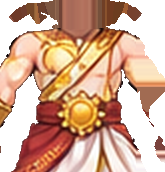
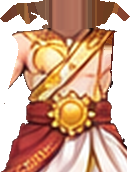
Rig: skin shared over shoulders / elbows / hips (limb-sized weights); capsule limbs + continued body outline in the front-view cutter; Apollo re-cut; checker expects no bow button without a bow
Claude-Session: https://claude.ai/code/session_01TXxUxRVSrR4y47PPq4zaDc

diff --git a/rig2d/bones.js b/rig2d/bones.js
@@ -308,7 +308,7 @@ const Bones2D = (() => {
      without WebGL the pieces are drawn stiff as before. Weapons stay stiff. rig._meshShow = true draws the grid (orange = points that blend bones). */
   const fall = (d, s) => { const t = Math.min(1, d / s); return 1 - t * t * (3 - 2 * t); };
   const NOKID = { weapon: 1, weaponB: 1, none: 1, hair: 1, cape: 1, tail: 1, wing: 1 };   /* a body does not bend toward its swinging hair / cape or a hidden filler */
-  function meshOpt(rig) { return Object.assign({ mode: 'pieces', step: 12, soft: 18, blend: .5 }, rig.mesh === true ? {} : rig.mesh || {}); }
+  function meshOpt(rig) { return Object.assign({ mode: 'pieces', step: 12, soft: 18, blend: .5, skin: .45, pull: .45, reach: .35 }, rig.mesh === true ? {} : rig.mesh || {}); }
   function meshSig(rig) { let s = ''; for (const k of rig.order) { const q = rig.parts[k]; s += k + q.p + q.at + q.pv + q.r + q.s + q.fx + q.role + '|'; } return s + JSON.stringify(rig.mesh) + rig._feet; }
   function meshMake(rig) {
     prep(rig); const o = meshOpt(rig), M0 = world(rig, {}, null), inv0 = {}; for (const k in M0) inv0[k] = inv(M0[k]);
@@ -322,17 +322,35 @@ const Bones2D = (() => {
     return { u, v, tri: Uint16Array.from(tri) };
   }
   const alphaOf = im => { const c = document.createElement('canvas'); c.width = im.width; c.height = im.height; const g = c.getContext('2d', { willReadFrequently: true }); g.drawImage(im, 0, 0); return g.getImageData(0, 0, im.width, im.height).data; };
-  function meshPiece(rig, k, im) {   /* one piece's picture as a mesh, weights to itself, its parent (round its turning point) and its children (round theirs) */
+  /* SKIN round the limb joints (owner 2026-11-28 "รักแร้ก็ขาด ... ไม่แก้ที่ต้นเหตุ เมชกระดูกเข้าหรือเมชชิ้นส่วนไม่ได้หรือ"): a small circle round the
+     turning point was too little, the armpit tore open when an arm went up. For a LIMB (arm, forearm, leg, shin) the skin is shared over the whole
+     shoulder / hip / elbow: the limb's own points near its root follow the body part above it (fading out along the limb's length), and the body
+     part's points near the limb's upper half follow the limb (fading out over a third of the limb's length). Measured from each limb's own size,
+     so a new hero gets it without setting anything. */
+  const LIMB = { armF: 1, armB: 1, foreF: 1, foreB: 1, legF: 1, legB: 1, shinF: 1, shinB: 1 };
+  function limbAxis(rig, k) {   /* a limb at rest: turning point, unit direction down the limb, length (world px), from the farthest corner of its picture */
+    const M = rig._mesh, m = M.M0[k], im = rig.img[k], q = rig.parts[k]; if (!im) return null; let best = null;
+    for (const [u, v] of [[0, 0], [1, 0], [0, 1], [1, 1], [.5, 1], [.5, 0], [0, .5], [1, .5]]) { const p = pt(m, im.width * u - q.pv[0] - (im._ox || 0), im.height * v - q.pv[1] - (im._oy || 0)), d = Math.hypot(p[0] - m[4], p[1] - m[5]); if (!best || d > best[2]) best = [p[0], p[1], d]; }
+    const c = pt(m, im.width / 2 - q.pv[0] - (im._ox || 0), im.height / 2 - q.pv[1] - (im._oy || 0)), dx = c[0] - m[4], dy = c[1] - m[5], dl = Math.hypot(dx, dy) || 1;
+    return { J: [m[4], m[5]], A: [dx / dl, dy / dl], L: Math.max(10, Math.min(best[2], dl * 2.2)) };
+  }
+  function meshPiece(rig, k, im) {   /* one piece's picture as a mesh, weights to itself, its parent and its children (see SKIN above) */
     const M = rig._mesh, o = M.o, q = rig.parts[k], W = im.width, H = im.height, rigid = q.role === 'weapon' || q.role === 'weaponB', m0 = M.M0[k];
     const al = rigid ? null : alphaOf(im), G = meshGrid(W, H, rigid ? 1e9 : o.step, al && ((x, y) => al[(y * W + x) * 4 + 3] > 8));
     const par = !rigid && q.p && rig.parts[q.p] && q.p !== k ? q.p : null, kids = rigid ? [] : Object.keys(rig.parts).filter(c => c !== k && rig.parts[c].p === k && !NOKID[rig.parts[c].role]);
+    const myAx = LIMB[q.role] && par ? limbAxis(rig, k) : null, kidAx = kids.map(c => LIMB[rig.parts[c].role] ? limbAxis(rig, c) : null);
     const bones = [k].concat(par ? [par] : [], kids), n = G.u.length, rx = new Float32Array(n), ry = new Float32Array(n), uv = new Float32Array(n * 2), wb = [], ww = [], ox = q.pv[0] + (im._ox || 0), oy = q.pv[1] + (im._oy || 0);
+    const segD = (X, Y, ax, f) => { const ex = ax.J[0] + ax.A[0] * ax.L * f, ey = ax.J[1] + ax.A[1] * ax.L * f, vx = ex - ax.J[0], vy = ey - ax.J[1], t = Math.max(0, Math.min(1, ((X - ax.J[0]) * vx + (Y - ax.J[1]) * vy) / (vx * vx + vy * vy || 1))); return Math.hypot(X - ax.J[0] - vx * t, Y - ax.J[1] - vy * t); };
     for (let i = 0; i < n; i++) { const lx = G.u[i] - ox, ly = G.v[i] - oy, X = m0[0] * lx + m0[2] * ly + m0[4], Y = m0[1] * lx + m0[3] * ly + m0[5]; rx[i] = X; ry[i] = Y; uv[i * 2] = G.u[i] / W; uv[i * 2 + 1] = G.v[i] / H;
-      const b = [0], w = [1]; if (!rigid) { let s = 0; const add = (bi, J) => { const f = o.blend * fall(Math.hypot(X - J[4], Y - J[5]), o.soft); if (f > .01) { b.push(bi); w.push(f); s += f; } };
-        if (par) add(1, m0); kids.forEach((c, j) => add(1 + (par ? 1 : 0) + j, M.M0[c])); w[0] = Math.max(.2, 1 - s); const t = w.reduce((a, e) => a + e, 0); for (let j = 0; j < w.length; j++) w[j] /= t; }
+      const b = [0], w = [1]; if (!rigid) { let s = 0; const push = (bi, f) => { if (f > .01) { b.push(bi); w.push(f); s += f; } };
+        if (par) { if (myAx) { const t = ((X - myAx.J[0]) * myAx.A[0] + (Y - myAx.J[1]) * myAx.A[1]) / myAx.L; push(1, o.blend * fall(Math.max(0, t), o.skin)); }   /* down the limb from its root */
+          else push(1, o.blend * fall(Math.hypot(X - m0[4], Y - m0[5]), o.soft)); }
+        kids.forEach((c, j) => { const ax = kidAx[j]; push(1 + (par ? 1 : 0) + j, ax ? o.pull * fall(segD(X, Y, ax, .5), ax.L * o.reach) : o.blend * fall(Math.hypot(X - M.M0[c][4], Y - M.M0[c][5]), o.soft)); });   /* the body near a limb's upper half follows it */
+        w[0] = Math.max(.2, 1 - s); const t = w.reduce((a, e) => a + e, 0); for (let j = 0; j < w.length; j++) w[j] /= t; }
       wb.push(b); ww.push(w); }
     return { k, gen: M.gen, bones, rx, ry, uv, tri: G.tri, wb, ww };
   }
+
   function meshOne(rig, o, M0) {   /* the whole reference picture as ONE mesh. Which bone each spot follows = which piece covers it at rest (rig.parts only say
        where the bones are and which area is whose; their pictures are not drawn). Round a joint a spot also follows the bone on the other side (like 'pieces').
        Where two areas meet away from a joint (an arm lying over the skirt) the sheet is TORN, so the arm lifts off instead of dragging the skirt with it. */

diff --git a/tools/qa/rig_check.js b/tools/qa/rig_check.js
@@ -9,8 +9,8 @@ const { chromium } = require('playwright'), fs = require('fs');
   for (const [W, H] of [[844, 390], [1280, 720]]) {
     const pg = await (await b.newContext({ viewport: { width: W, height: H }, deviceScaleFactor: 2, hasTouch: W < 900 })).newPage(); pg.on('pageerror', e => errs.push(e.message)); pg.on('console', m => { if (m.type() === 'error') errs.push(m.text()); });
     await pg.goto(`http://localhost:8000/rig.html?char=${ch}`); await pg.waitForFunction(() => window.RIG && RIG.PL && RIG.PL.mats, null, { timeout: 20000 });
-    const info = await pg.evaluate(() => ({ parts: Object.keys(RIG.R.parts).length, roles: Object.values(RIG.R.parts).map(q => q.role), btn: document.querySelectorAll('#mvs button').length, moves: Object.keys(RIG.B.MOVES), clips: Object.keys(RIG.R.clips || {}).length }));
-    say(`${W}: rig loaded, ${info.parts} pieces, ${info.btn} move buttons`, info.btn >= info.moves.length - 1 && info.roles.includes('body') && (info.parts >= 5 && info.roles.includes('head') || info.clips > 0)   /* a drawn-frames rig may be one piece */);
+    const info = await pg.evaluate(() => ({ parts: Object.keys(RIG.R.parts).length, roles: Object.values(RIG.R.parts).map(q => q.role), btn: document.querySelectorAll('#mvs button').length, moves: Object.keys(RIG.B.MOVES), clips: Object.keys(RIG.R.clips || {}).length, shot: !!RIG.R.shot }));
+    say(`${W}: rig loaded, ${info.parts} pieces, ${info.btn} move buttons`, info.btn >= info.moves.length - 1 - (info.shot ? 0 : 1) &&   /* the bow move shows only for a hero with a bow */ info.roles.includes('body') && (info.parts >= 5 && info.roles.includes('head') || info.clips > 0)   /* a drawn-frames rig may be one piece */);
     await pg.waitForTimeout(500); await pg.screenshot({ path: `${out}/${W}_idle.png` });
     for (const mv of info.moves) { if (!await pg.evaluate(mv => { const b = document.querySelector(`#mvs button[data-mv="${mv}"]`); if (b) b.click(); return !!b; }, mv)) continue; await pg.waitForTimeout(mv === 'die' ? 500 : 450);
       const st = await pg.evaluate(() => ({ name: RIG.PL.name, nan: Object.values(RIG.PL.mats).some(m => m.some(v => !isFinite(v))) })); if (st.nan) say(`${W}: ${mv} gives a broken pose`, false); if (mv === 'attack' || mv === 'cast') await pg.screenshot({ path: `${out}/${W}_${mv}.png` }); }

diff --git a/tools/art/rig_from_front.py b/tools/art/rig_from_front.py
@@ -12,14 +12,16 @@ from scipy import ndimage as nd
 R = os.path.join(os.path.dirname(os.path.abspath(__file__)), '../..')
 CHARS = {
   'apollo': dict(sheet='art/incoming/apollo/owner_sheet_raw.png', title='อพอลโล (จากแผ่นของคุณ)', box=(560, 14, 730, 300), K=2, flip=False,
-    # regions in SHEET pixels: name: (role, parent, turning point, polygon). His left hand (right of the picture) holds the bow, the right one draws.
+    # regions in SHEET pixels: name: (role, parent, turning point, polygon[, capsule]). His left hand (right of the picture) holds the bow, the right one draws.
+    # capsule = (shoulder, fist, radius): the WHOLE limb along that line is the limb's (2026-11-28: the polygons gave the upper-arm muscle to the torso,
+    # so a lifted arm left its own shoulder behind = a torn armpit). Two points + a thickness, easier to set than a polygon and it follows the limb.
     parts=dict(
       leg_r=('legB', 'torso', (627, 240), [(606, 236), (646, 236), (646, 300), (606, 300)]),
       leg_l=('legF', 'torso', (676, 240), [(656, 236), (705, 236), (705, 300), (656, 300)]),
       skirt=('none', 'torso', (646, 212), [(596, 210), (712, 210), (712, 262), (596, 262), (596, 236), (606, 236), (646, 236), (656, 236), (705, 236), (712, 236)]),
       torso=('body', '', (646, 230), [(612, 136), (682, 136), (684, 212), (608, 212)]),
-      arm_r=('armB', 'torso', (612, 150), [(592, 140), (613, 140), (613, 212), (592, 212)]),
-      arm_l=('armF', 'torso', (682, 150), [(682, 140), (706, 140), (706, 212), (682, 212)]),
+      arm_r=('armB', 'torso', (619, 150), [(592, 140), (613, 140), (613, 212), (592, 212)], ((618, 151), (604, 202), 9.5)),
+      arm_l=('armF', 'torso', (680, 150), [(682, 140), (706, 140), (706, 212), (682, 212)], ((680, 151), (695, 202), 9.5)),
       head=('head', 'torso', (646, 138), [(560, 14), (730, 14), (730, 140), (682, 140), (612, 140), (560, 140)])),
     order=['leg_r', 'leg_l', 'arm_r', 'skirt', 'torso', 'bow', 'arm_l', 'head'],
     weapon=dict(name='bow', box=(1462, 126, 1504, 296), role='weapon', parent='arm_l', hold=(698, 198), height=.62, r=0),
@@ -40,16 +42,47 @@ S2 = lambda p: ((p[0] - x0) * K, (p[1] - y0) * K)
 keys = [k for k in C['parts']]; owner = np.full((H, W), -1)
 for j, k in enumerate(keys):   # later regions win (head over arms over torso ...)
     pm = Image.new('L', (W, H), 0); ImageDraw.Draw(pm).polygon([S2(p) for p in C['parts'][k][3]], fill=1); owner[(np.asarray(pm) > 0) & FIG] = j
+YY, XX = np.mgrid[0:H, 0:W].astype(np.float32)
+for j, k in enumerate(keys):   # limbs given as a capsule take every figure pixel along their line (after the polygons, before nothing else)
+    cap = C['parts'][k][4] if len(C['parts'][k]) > 4 else None
+    if not cap: continue
+    (ax, ay), (bx, by) = S2(cap[0]), S2(cap[1]); r = cap[2] * K; vx, vy = bx - ax, by - ay; t = np.clip(((XX - ax) * vx + (YY - ay) * vy) / (vx * vx + vy * vy), 0, 1)
+    d = np.hypot(XX - ax - vx * t, YY - ay - vy * t); owner[(d <= r) & FIG & (owner != keys.index('head'))] = j
 miss = FIG & (owner < 0); _, (iy, ix) = nd.distance_transform_edt(owner < 0, return_indices=True); owner[miss] = owner[iy[miss], ix[miss]]
 PARTS = {}; UNDER = 14 * K // 2
 for j, k in enumerate(keys):
-    role, par, tp, _ = C['parts'][k]; own = owner == j
+    role, par, tp = C['parts'][k][:3]; own = owner == j
     # under-paint ONLY into the area of pieces drawn ABOVE this one (hidden there at rest; under a piece drawn below it would cover that piece and leave
     # a ghost of it when it moves). (A full-depth fill under the arms was tried 2026-11-28: brown streaks where the background should show; shallow is better.)
     above = np.isin(owner, [j2 for j2, k2 in enumerate(keys) if k2 in C['order'] and C['order'].index(k2) > C['order'].index(k)]) if k in C['order'] else np.zeros_like(own)
     deep = role in ('body', 'none'); zone = nd.binary_dilation(own, iterations=UNDER * (2 if role == 'body' else 1)) & FIG & ~own & above if k not in ('head',) else np.zeros_like(own)
+    edge = np.zeros_like(own)
+    if deep:   # OUTLINE CONTINUED (2026-11-28 "รักแร้ก็ขาด"): where an arm hides the body's side, the side is not in the picture. Rows where the body's edge
+        # meets the background are known; rows where it meets a piece drawn above are not: the edge there is joined straight from the known rows above
+        # and below, the under-paint stops at it, and its last pixels get the outline colour, so a lifted arm shows the body's own side, not a strip.
+        ys_, = np.nonzero(own.any(1)); y0_, y1_ = ys_.min(), ys_.max(); allow = np.zeros_like(own); outl = A[own & ~nd.binary_erosion(own, iterations=2)]
+        oc = np.median(outl[outl.sum(1) < np.percentile(outl.sum(1), 25)], 0) if len(outl) else np.array([40, 30, 30])
+        for side in (0, 1):
+            ext = np.full(H, np.nan); known = np.zeros(H, bool)
+            for y in range(y0_, y1_ + 1):
+                xs_ = np.nonzero(own[y])[0]
+                if not len(xs_): continue
+                x = xs_.max() if side else xs_.min(); nx = x + (1 if side else -1); ext[y] = x
+                known[y] = not (0 <= nx < W) or not FIG[y, nx] or not above[y, nx]   # the edge meets the background (or something below) = real
+            ky = np.nonzero(known)[0]
+            if len(ky) < 2: continue
+            est = np.interp(np.arange(H), ky, ext[ky])
+            for y in range(y0_, y1_ + 1):
+                if known[y] or np.isnan(ext[y]): continue
+                a, b = sorted((ext[y], est[y])); allow[y, int(a):int(b) + 1] = True
+                xe = int(round(est[y])); edge[y, max(0, xe - 1):min(W, xe + 2)] = True
+        lateral = np.zeros_like(own)   # beside the body in its own rows: only there is the under-paint held to the continued outline
+        for y in range(y0_, y1_ + 1):
+            xs_ = np.nonzero(own[y])[0]
+            if len(xs_): lateral[y, :xs_.min()] = True; lateral[y, xs_.max() + 1:] = True
+        zone &= ~(lateral & ~allow); edge &= zone
     src = own & (np.asarray(SH.crop(C['box']).resize((W, H)).convert('L')) > 70); _, (jy, jx) = nd.distance_transform_edt(~src, return_indices=True)
-    rgb = A.copy(); rgb[zone] = A[jy[zone], jx[zone]]; m = own | zone; ys, xs = np.nonzero(m); bx0, by0, bx1, by1 = xs.min(), ys.min(), xs.max() + 1, ys.max() + 1
+    rgb = A.copy(); rgb[zone] = A[jy[zone], jx[zone]]; rgb[edge] = oc if deep else rgb[edge]; m = own | zone; ys, xs = np.nonzero(m); bx0, by0, bx1, by1 = xs.min(), ys.min(), xs.max() + 1, ys.max() + 1
     alpha = np.where(own, AL, np.where(zone, 1, 0)); Image.fromarray(np.dstack([rgb[by0:by1, bx0:bx1], alpha[by0:by1, bx0:bx1] * 255]).astype(np.uint8), 'RGBA').save(os.path.join(OUT, k + '.png'))
     t = S2(tp); PARTS[k] = dict(img=k + '.png', n=k, role=role, p=par, pv=[round(t[0] - bx0, 1), round(t[1] - by0, 1)], at=[round(t[0], 1), round(t[1], 1)], r=0, s=1)
 NAMES = dict(head='หัว', torso='ลำตัว', skirt='ผ้านุ่ง', arm_r='แขนขวา (ดึงสาย)', arm_l='แขนซ้าย (ถือธนู)', leg_r='ขาขวา', leg_l='ขาซ้าย')
